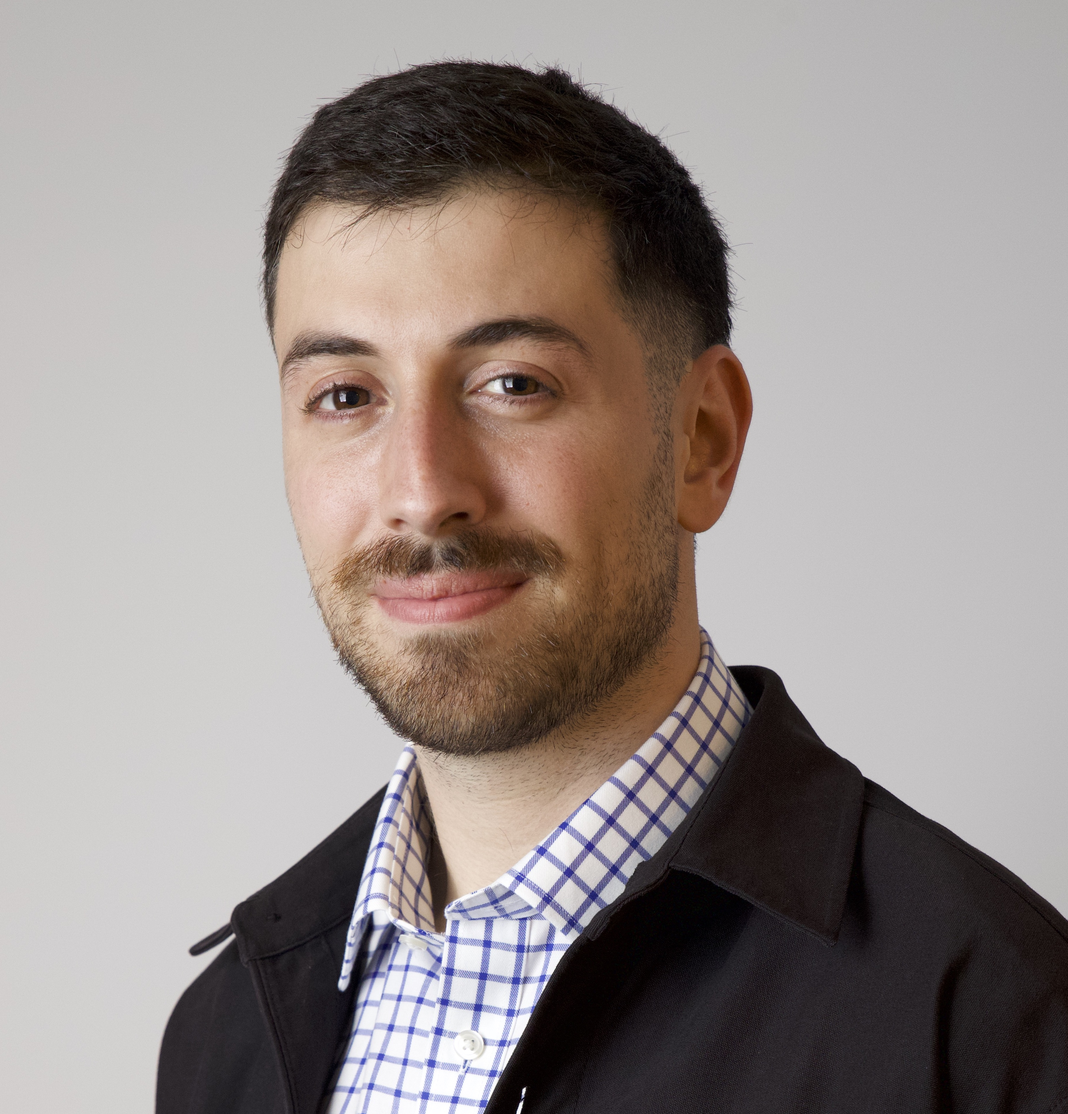
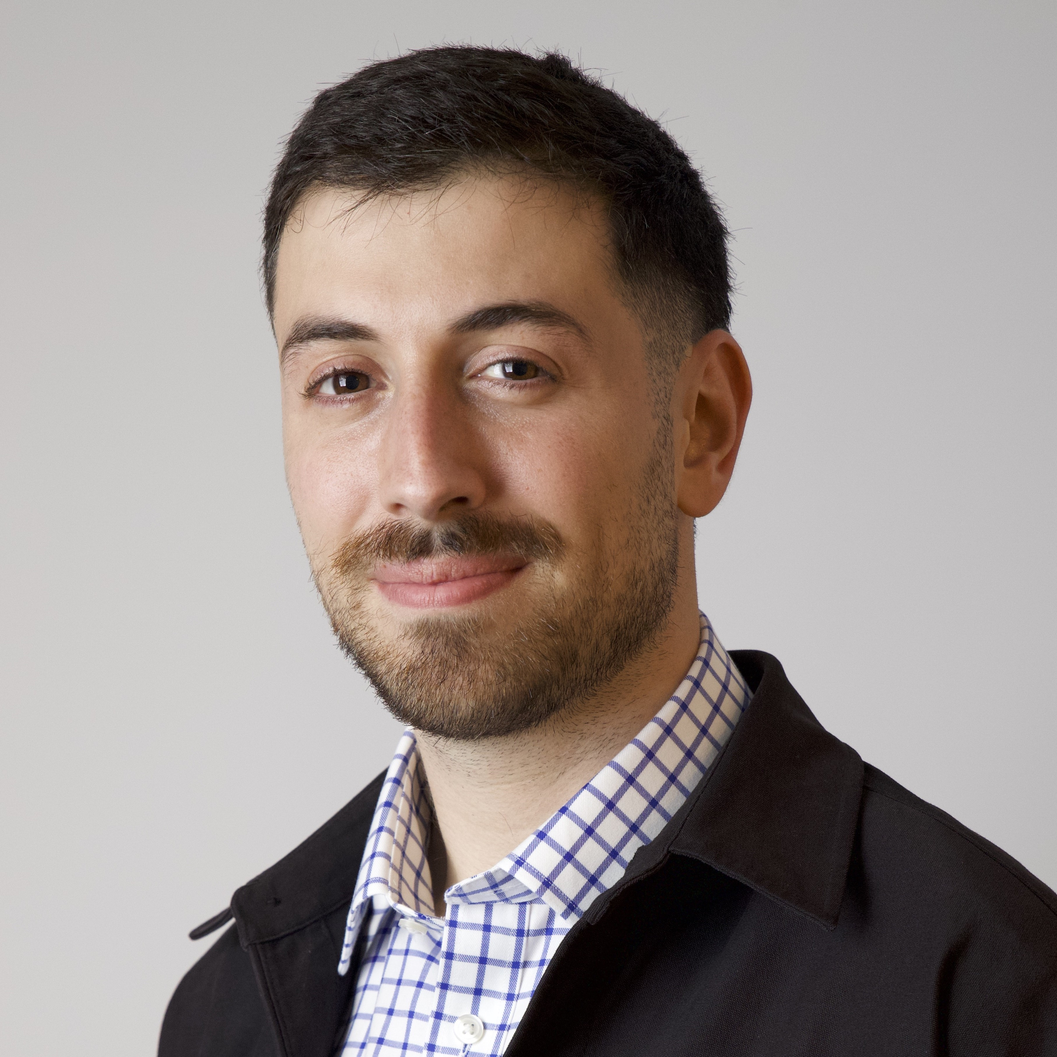
test

Changed region(s): [[0.1247, 0.0312, 1.0, 1.0], [0.8726, 0.8414, 0.9349, 1.0], [0.9349, 0.9349, 0.9972, 1.0]]

diff --git a/public/index.html b/public/index.html
@@ -127,8 +127,12 @@ stroke-linejoin="round" class="feather feather-home">
 
 <div class="author">
     
+    
+    <img class="author-avatar" src="/avatar_hufb5469564d92cc6f45f5d388bfa699a2_2342761_100x100_fill_q75_h2_box_smart1.webp" alt="Daniel Z" width="3626"
+        height="3626" />
+    
     <h2 class="author-name">Daniel Z</h2>
-    <p class="author-bio">Welcome to my blog, where I talk about how I learn from my numbskull mistakes</p>
+    <p class="author-bio">Welcome to my blog, where I talk about how I learn from my numbskull mistakes.</p>
 </div>
 
         <main aria-label="Content">
